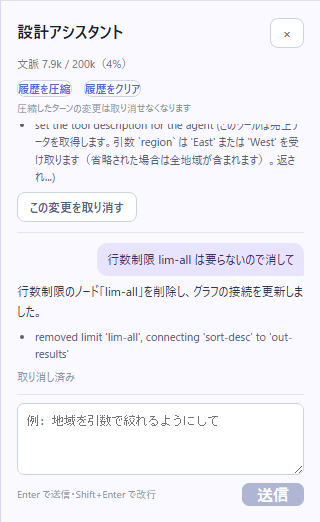
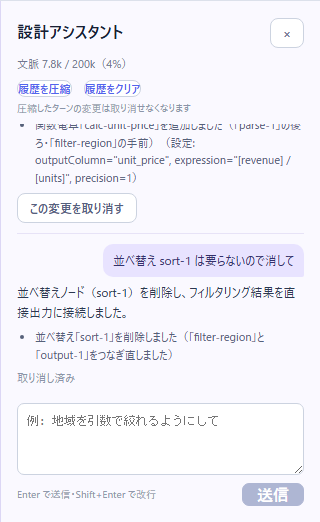
docs(manual): retake screenshots after the v53 fixes
All 29 screenshots were retaken on the current code in Japanese, reproducing the scenes the text describes (the design assistant and tutorial shots from live runs on a local 12B model). Pre-v53 notes are removed and the examples next to the new shots were updated to what those runs produced.

diff --git a/docs/manual/11-tutorials/02-build-with-factory.md b/docs/manual/11-tutorials/02-build-with-factory.md
@@ -43,18 +43,18 @@
 
 実行の詳細には「ステージ」「経過」と「タイムライン」が出て、進むたびに行が増える（「開始 · データ把握」「完了 · データ把握」「開始 · 計画」…）。
 
-計画ができると、状態が「承認待ち」になり、「計画の承認が必要です」の枠が出る。実測では開始から約 2 分半で出た。
+計画ができると、状態が「承認待ち」になり、「計画の承認が必要です」の枠が出る。実測では開始から約 2 分半〜3 分で出た。
 
 ![計画の承認を求められたところ](../assets/11-tutorials/factory-plan.png)
 
-> 画像は v53 以前の表示。枠の上の文（`Review the proposed plan for …`）は、現在は下の実測例のとおり日本語で出る。
+枠には、作るエージェントの名前と説明、作るものの数が出る。写真の回の計画は次のとおりだった（例）。
 
-枠には、作るエージェントの名前と説明、作るものの数が出る。実測の計画は次のとおりだった（例）。
+- エージェント: 販売分析アシスタント — 売上データ（量・金額）および地域別・月別の推移を解析し、営業マネージャー向けに分かりやすく要約する専門の分析担当者として振る舞います。SQLや複雑な操作を意識せず、自然な日本語での質問から必要な情報を正確に抽出します。
+- 「ツール: 1」「スキル: 2」「ペルソナ: 1」「シナリオ: 2」
 
-- エージェント: 売上分析アシスタント — 営業部のマネージャー向け、SQL不要の売上・販売数データ集計および推移レポート生成アシスタント。月次データに基づき、地域別の売上や数量の動向を瞬時に回答します。
-- 「ツール: 1」「スキル: 1」「ペルソナ: 1」「シナリオ: 2」
+エージェントの名前や作るものの数は回ごとに変わる（別の回では「売上分析アシスタント」「スキル: 1」だった）。
 
-枠の上の文は日本語で出る（v53。以前は `Review the proposed plan for …` のような英語だった）。例えば「「月次の売上データについて、地域別・月別の売上や販売数の質問に答え、推移を要約できるアシスタントが欲しい」の計画案です: エージェント「売上分析アシスタント」、Tool 1 件、Skill 1 件、ペルソナ 1 件、シナリオ 2 件。」のように出る（やりたいことの全文がそのまま入るので長くなる）。
+枠の上の文は日本語で出る（v53。以前は `Review the proposed plan for …` のような英語だった）。写真の回では「「月次の売上データについて、地域別・月別の売上や販売数の質問に答え、推移を要約できるアシスタントが欲しい」の計画案です: エージェント「販売分析アシスタント」、Tool 1 件、Skill 2 件、ペルソナ 1 件、シナリオ 2 件。」と出た（やりたいことの全文がそのまま入るので長くなる）。タイムラインの「承認をリクエスト」の行は、いまも `Review the proposed plan for …` の英語のまま出る。
 
 - よければ「承認」を押す。
 - 直してほしければ「修正フィードバック」に書いて「修正を依頼」を押す。
@@ -77,22 +77,22 @@
 
 ![Factory のレポート](../assets/11-tutorials/factory-report.png)
 
-> 画像は v53 以前の表示。表の上の総括の 1 行（`Factory run stopped after …`）と「候補」の行（内部IDのみ）は、現在は下の実測例のとおり日本語の総括・表示名（引ければ）で出る。
-
-実測のレポートは次のとおりだった（例）。
+写真の回のレポートは次のとおりだった（例）。
 
 | 項目 | 実測 | 読み方 |
 |---|---|---|
 | 品質判定 | 目標達成 | 「目標達成」「目標未達」「検証できず」のどれか。「検証できず」はそもそも測れなかった（全シナリオが失敗した等）という意味で、未達とは別 |
 | 最良イテレーション | 1 | 検証 → 改善を回したうち、成績がいちばん良かった周。1 周目で目標を満たしたので、改善は回らなかった |
-| 候補 | `売上分析アシスタント (Factory)@1.0.0` | 使うことを勧めるエージェントの版。表示名が引けるときは表示名で出る（v53。それ以前・表示名が空のときは `22cfee24-…@1.0.0` のような内部IDで出る） |
+| 候補 | `販売分析アシスタント (Factory)@1.0.0` | 使うことを勧めるエージェントの版。表示名が引けるときは表示名で出る（v53。それ以前・表示名が空のときは `22cfee24-…@1.0.0` のような内部IDで出る）。**実行を始めた画面を開いたまま完了を待つと、内部ID（`fc90388d-…@1.0.0`）のまま出た**。ブラウザを再読み込みして「実行履歴」からその実行を選ぶと表示名になる（写真は再読み込みしたあと） |
 | イテレーションの表 | 目標達成率 100%、平均満足度 5.0、ツール命中率 100%、アンケート未回収 0 / 2 | 疑似ユーザーとの会話で、目標を果たせた割合・満足度（5 段階）・期待したツールを呼べた割合 |
 | 未解決の指摘 | 未解決の指摘はありません。 | 検証で見つかって直しきれなかった問題 |
-| 生成資産（draft） | ツール: 1、スキル: 1、エージェント版: 1、ペルソナ: 1、シナリオ: 2 | できたものの数。すべて draft（下書き）で保存される |
+| 生成資産（draft） | ツール: 1、スキル: 2、エージェント版: 1、ペルソナ: 1、シナリオ: 2 | できたものの数。すべて draft（下書き）で保存される |
 
-表の上の 1 行の総括は日本語で出る（v53。以前は `Factory run stopped after 1 iteration(s); …` のような英語だった）。例えば「1 回のイテレーション後にFactory runが停止しました（直近の目標達成率=1.00、平均満足度=5.00）。」のように出る。
+表の上の 1 行の総括は日本語で出る（v53。以前は `Factory run stopped after 1 iteration(s); …` のような英語だった）。例えば「1 回のイテレーション後にFactory runが停止しました（直近の目標達成率=1.00、平均満足度=5.00）。」のように出る。ただし、改善を回した回（別の回。「目標未達」で 2 周した）では、この行に改善の説明が英語のまま（`Revised the system prompt to mandate …`）出て、品質判定の下の理由も `avgSatisfaction 3.00 is below the target 4` と英語だった。
 
 ## 5. できたものを確かめて使い始める
+
+> 本節の 3（タイムラインの行）と 5 の名前・会話例は、写真とは別の回（エージェント「売上分析アシスタント」）のものである。写真の回は、前の回で Factory が作ったツールを作り直さずに使い回した（タイムラインに「ツールを再利用 · ツール生成 · fetch_sales_data: factory_tool_asset_monthly_sales_by_region_…」の行が出た）。
 
 レポートの下の「エージェント」「ツール」「スキル」「検証」「チャット」は、それぞれの**画面**を開くリンクである（作られたものを直接開くわけではない）。実測では、ツールとエージェントは各画面の一覧に `(Factory)` の付いた名前で並んだ。
 

diff --git a/docs/manual/03-tools/05-design-assistant.md b/docs/manual/03-tools/05-design-assistant.md
@@ -19,8 +19,6 @@
 
 ![ツール作成画面の右に設計アシスタントの欄が開いた状態](../assets/03-tools/assistant-open.png)
 
-> 画像は v53 以前の表示。ノードのカードの区分（`SOURCE`）と型名（`JSON source`）は、現在は「入力」「JSON入力」のようにパレットと同じ日本語で出る。
-
 「新規作成」で開いたキャンバスには、見本として「JSON入力」と「行フィルター」の 2 つのノードが置いてある。アシスタントはいまのキャンバスに**足したり直したり**するので、空から作るときは、先にこの 2 つを選んで `Delete` キーで消しておく（本節の例はそうしている）。
 
 ## 指示の送り方
@@ -169,8 +167,6 @@
 
 ![返答・変更一覧・「この変更を取り消す」](../assets/03-tools/assistant-reply.png)
 
-> 画像は v53 以前の表示。変更一覧（`added calculate '…' after '…'` 等）は、現在は本文のとおり日本語（「関数電卓「…」を追加しました（「…」の後ろ）」等）で出る。
-
 1 回の返答は、上から次の順に並ぶ。
 
 1. **自分の指示**（色付きの吹き出し）
@@ -189,7 +185,7 @@
 
 ![取り消した返答には「取り消し済み」と出る](../assets/03-tools/assistant-undo.png)
 
-> 画像は v53 以前の表示。変更一覧（`removed limit '…', connecting '…' to '…'` 等）は、現在は本文のとおり日本語（「行数制限「…」を削除しました（「…」と「…」をつなぎ直しました）」等）で出る。
+写真は、並べ替え「sort-1」を消させた返答を取り消したところ（変更一覧は「並べ替え「sort-1」を削除しました（「filter-region」と「output-1」をつなぎ直しました）」）。
 
 - それより**後の返答で加えた変更も一緒に戻る**（後の返答にも「取り消し済み」が付く）。
 - 会話そのものは消えない。

diff --git a/docs/manual/03-tools/02-build-on-canvas.md b/docs/manual/03-tools/02-build-on-canvas.md
@@ -8,8 +8,6 @@
 
 ![ツールの編集画面。上にメタデータの帯、中央左にノード、中央にキャンバス、右にインスペクター、下にプレビューと Tool Calling 契約](../assets/03-tools/canvas-editor-overview.png)
 
-> 画像は v53 以前の表示。ノードのカードの区分（`SOURCE` 等）と型名（`CSV source` 等）は、現在は本文のとおりパレットと同じ日本語（「入力」「変換」「分析」「出力」、「CSV入力」「行フィルター」「並べ替え」等）で出る。
-
 | 場所 | 名前 | 何をするか |
 |---|---|---|
 | 最上部 | 「一覧へ戻る」 | ツール一覧へ戻る |
